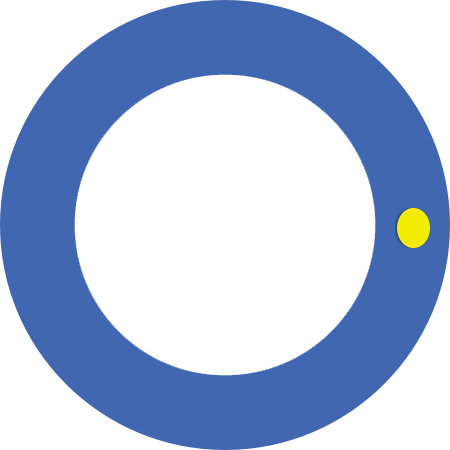
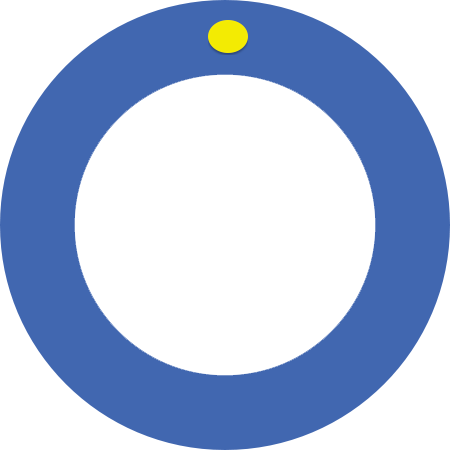
added Waterfall sound, fixed incongruency b'twn GUI and sound rotation

Changed region(s): [[0.8711, 0.4356, 0.9644, 0.56], [0.4356, 0.0311, 0.56, 0.1244]]

diff --git a/SteerAudio/SteeringWheel.m b/SteerAudio/SteeringWheel.m
@@ -25,8 +25,8 @@ static float existingAngle;
     
     if ((self = [super initWithFrame:frame])) {
         self.delegate = del;
-        self.existingAzimuth = 180;
-        self.currentAzimuth = 180;
+        self.existingAzimuth = 0;
+        self.currentAzimuth = 0;
         [self drawWheel];
     }
     return self;
@@ -43,7 +43,7 @@ static float existingAngle;
     container.userInteractionEnabled = NO;
     [self addSubview:container];
      startTransform = container.transform;
-     [self.delegate wheelDidChangeValue: [NSString stringWithFormat:@"%i", ((int)currentAzimuth)] :currentAzimuth];
+    //[self.delegate wheelDidChangeValue: [NSString stringWithFormat:@"%i", ((int)currentAzimuth)] :currentAzimuth];
 }
 
 - (void)turnWheel:(double)angle {

diff --git a/SteerAudio/ViewController.mm b/SteerAudio/ViewController.mm
@@ -56,7 +56,7 @@
     self.azimuthMain = az;
     self.valueLabel.text = [NSString stringWithFormat:@"%f", 180/3.142*(azimuthMain)];
     audioObj1->setLocation(sinf(self.azimuthMain), cosf(self.azimuthMain), 0);
-    Sonic::setPlayerBearing(180/PI*(-az));
+    //Sonic::setPlayerBearing(180/PI*(-az));
 }
 
 -(void) doGyroUpdate {
